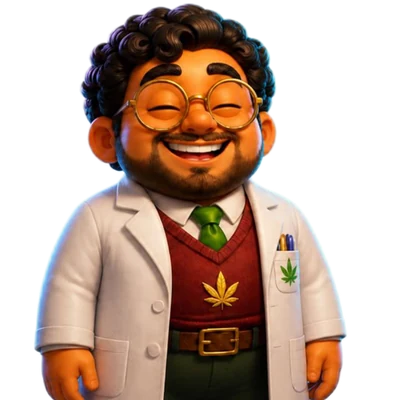
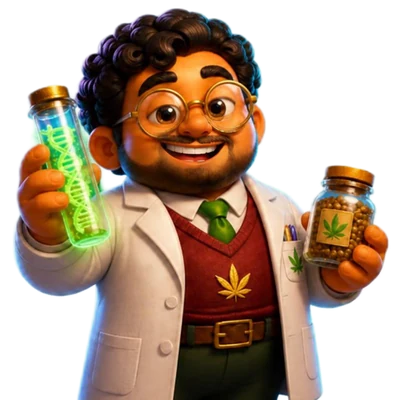
Prof. Rafa: una sola pose (sin saltos de brazos) y boca de hablar más chica y natural; la carcajada queda para cuando está contento

diff --git a/src/components/npc/Portrait3d.tsx b/src/components/npc/Portrait3d.tsx
@@ -28,10 +28,11 @@ const EXPR: Record<string, Frame[]> = {
   scientist: ['base', 'talk', 'talko', 'blink', 'happy', 'think', 'alert'],
   // her second pose, at the bench with a test tube (Nutrition → Mixing lab), so the lab doesn't repeat the one used everywhere else
   'scientist-lab': ['base', 'talk', 'talko', 'blink', 'happy', 'think', 'alert'],
-  geneticist: ['base', 'talk', 'happy', 'think', 'alert'],  // talk = base with the open mouth of another shot pasted in (the arms differ)
+  // only his base pose: talk = a small open mouth and happy = the big grin, both pasted in from another shot (whose arms differ)
+  geneticist: ['base', 'talk', 'happy'],
 };
 /** frames drawn in another pose than `base` (arms elsewhere): they cross-fade slower and base is not kept underneath them */
-const OTHER_POSE: Record<string, Frame[]> = { geneticist: ['happy', 'think'], farmer: ['think'] };
+const OTHER_POSE: Record<string, Frame[]> = { farmer: ['think'] };
 
 /** characters that also have whole-body frames (`<id>/full/`) */
 const FULL_BODY = new Set(['scientist']);
